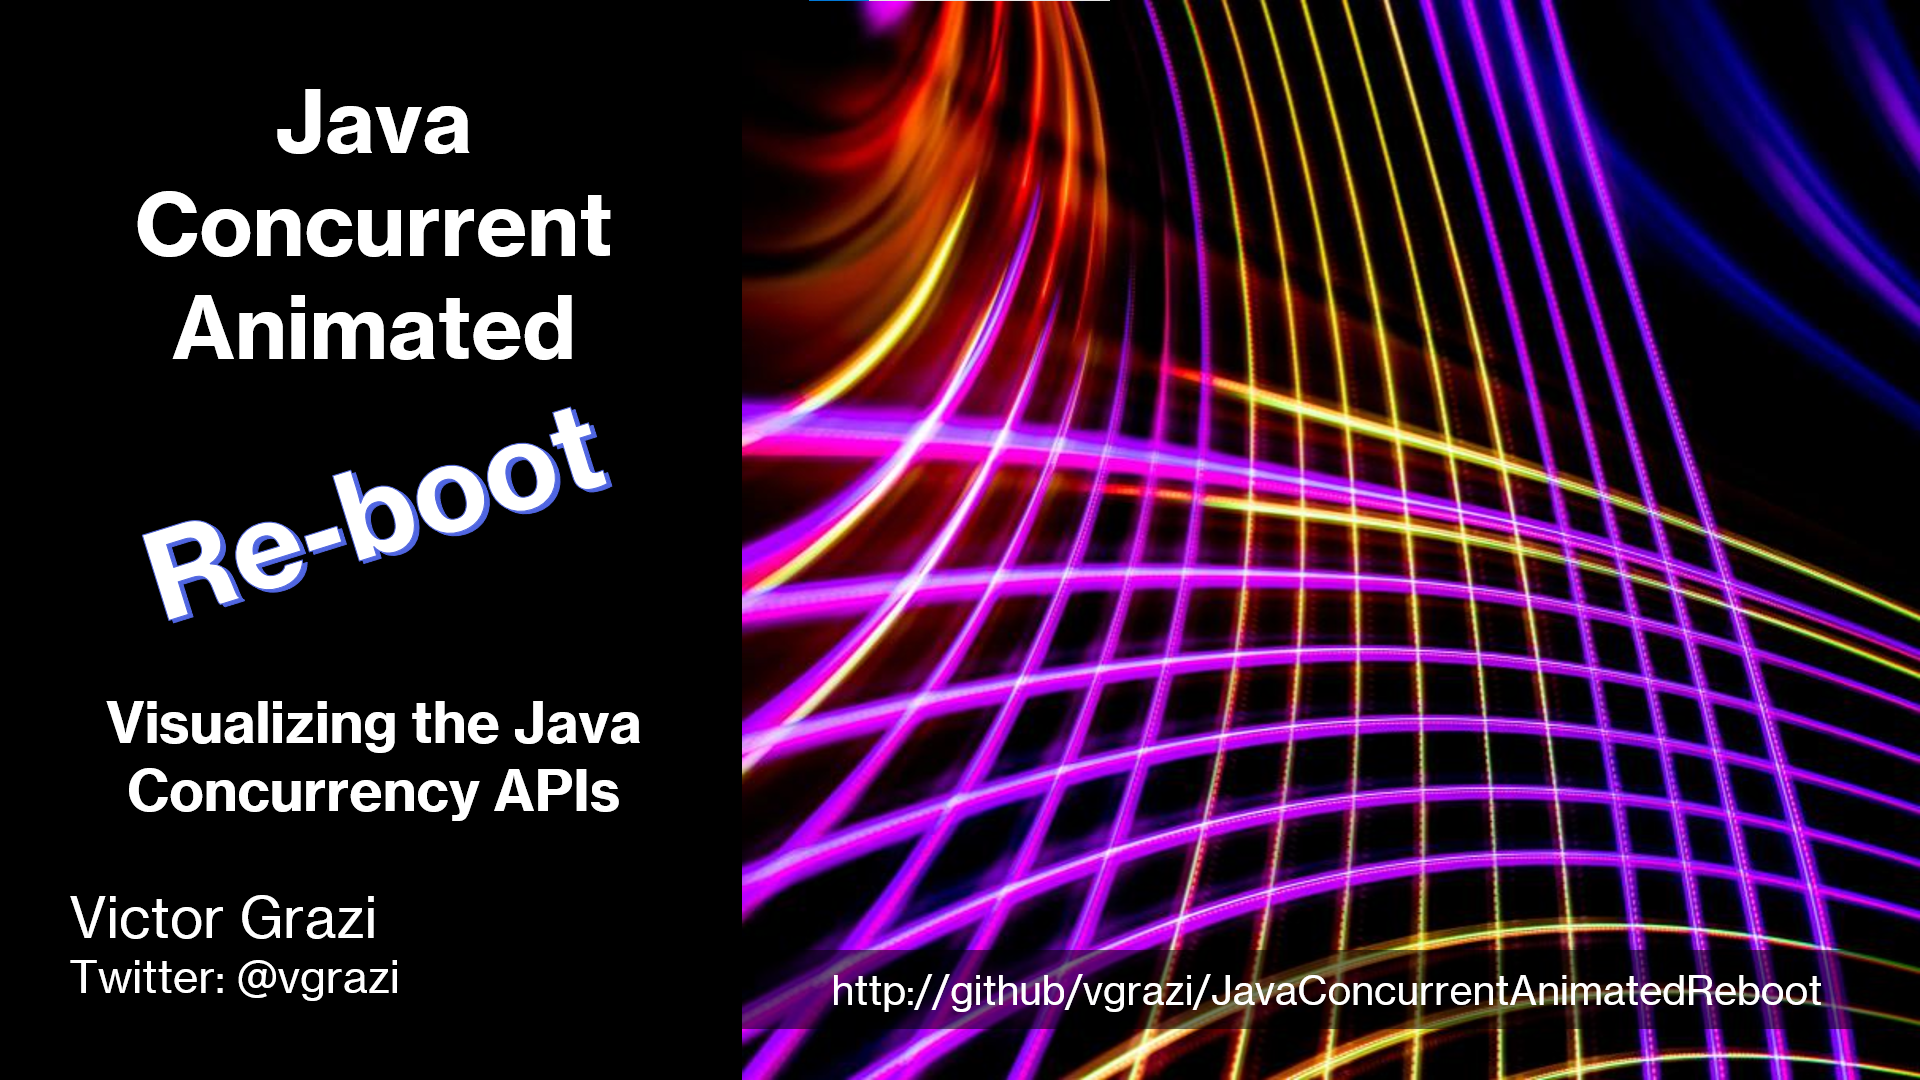
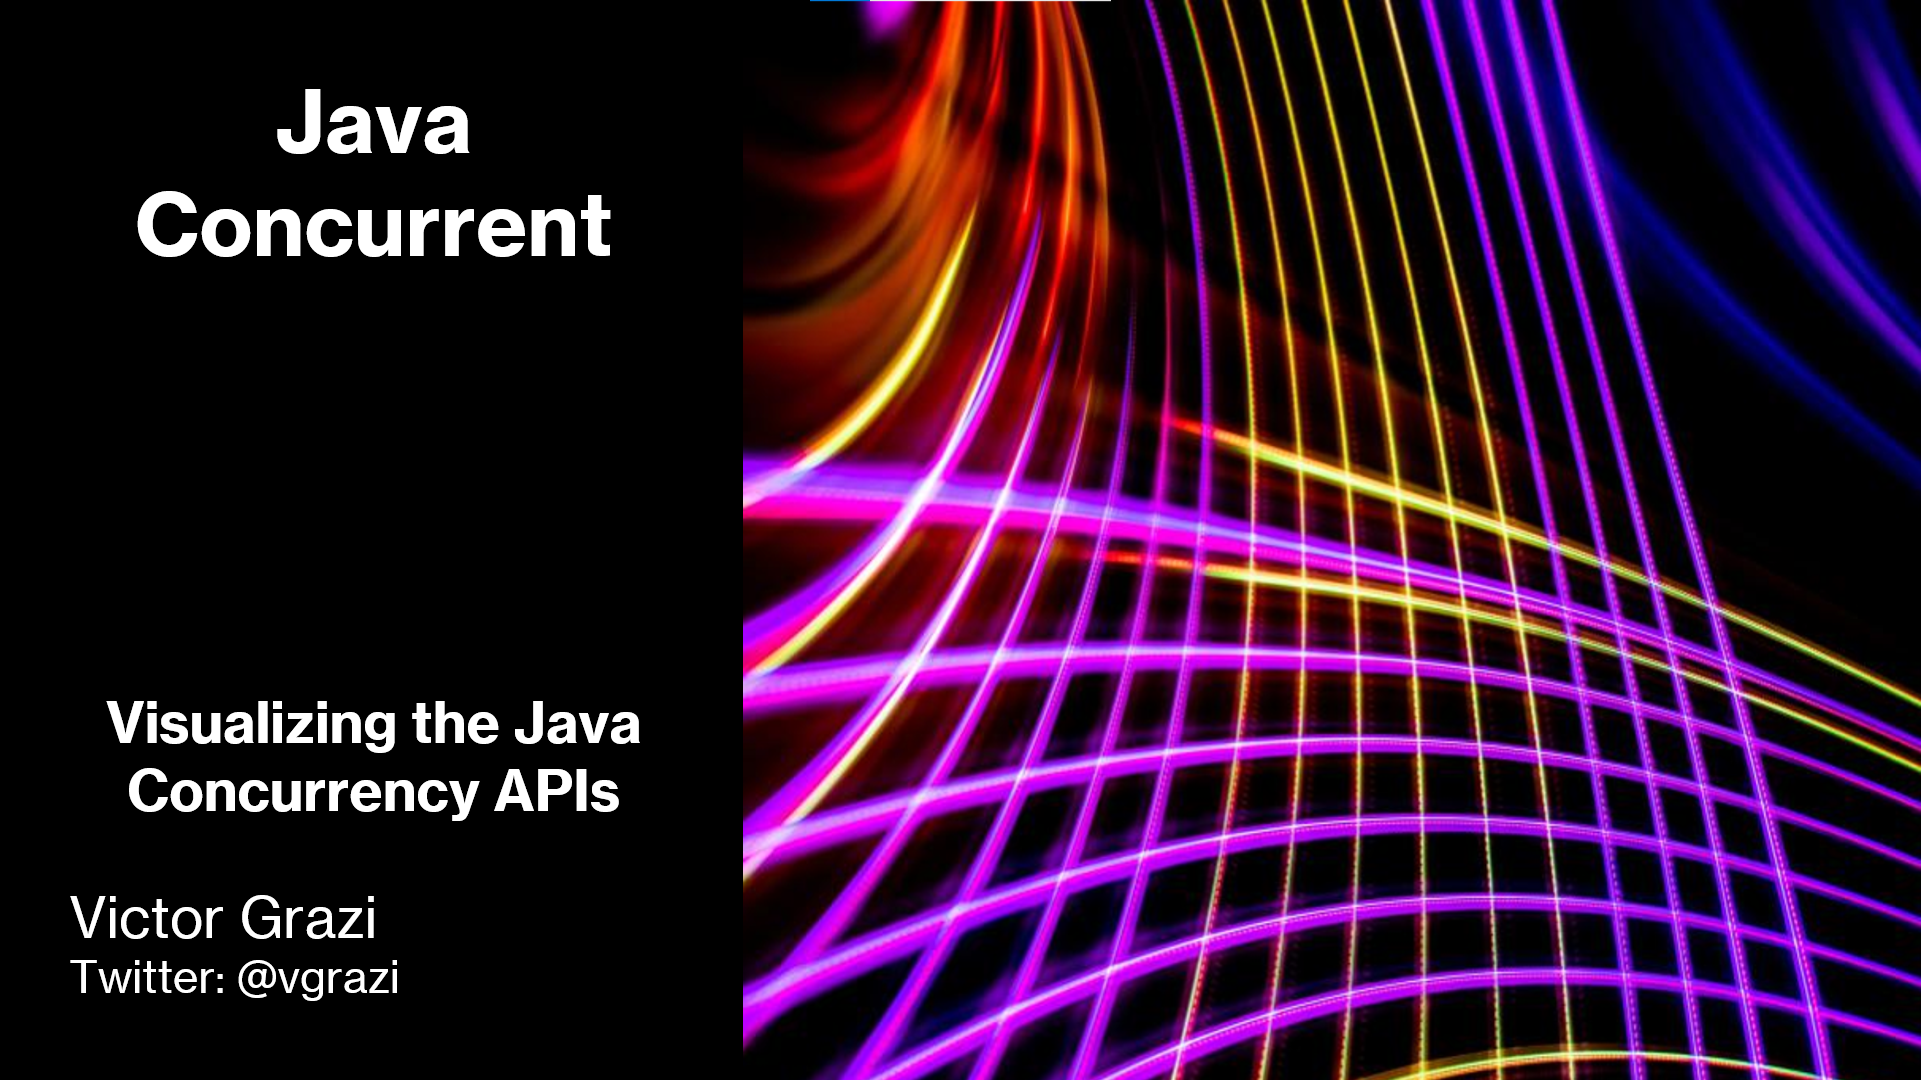
add animations to intro screen

diff --git a/src/main/java/com/vgrazi/jca/slides/IntroSlide.java b/src/main/java/com/vgrazi/jca/slides/IntroSlide.java
@@ -3,8 +3,13 @@ package com.vgrazi.jca.slides;
 import org.springframework.beans.factory.annotation.Autowired;
 import org.springframework.stereotype.Component;
 
+import javax.imageio.ImageIO;
 import javax.swing.*;
 import java.awt.*;
+import java.awt.image.BufferedImage;
+import java.awt.geom.AffineTransform;
+import java.io.IOException;
+import java.net.URL;
 import java.util.concurrent.Executors;
 import java.util.concurrent.ScheduledExecutorService;
 import java.util.concurrent.TimeUnit;
@@ -15,14 +20,19 @@ public class IntroSlide extends Slide {
     @Autowired
     private JPanel cardPanel;
     private final ScheduledExecutorService executor = Executors.newScheduledThreadPool(1);
+
+    private Timer animationTimer;
+    private BufferedImage meshImage;
+    private int meshOffsetX = 0;
+    private int meshOffsetY = 0;
+
     public void run() {
         reset();
-
         threadContext.addButton("reset()", this::reset);
         threadContext.setVisible();
-        // give it a few cycles to load the graphic
         executor.schedule(this::reset, 100, TimeUnit.MILLISECONDS);
     }
+
     @Override
     public void reset() {
         super.reset();
@@ -31,6 +41,188 @@ public class IntroSlide extends Slide {
     }
 
     public void resetImage() {
-        setImage("images/mesh.png", 1);
+        loadMeshImage();
+        startMeshAnimation();
+    }
+
+    private void loadMeshImage() {
+        if (meshImage != null) return;
+        try {
+            URL url = getClass().getClassLoader().getResource("images/mesh.png");
+            if (url != null) {
+                meshImage = ImageIO.read(url);
+            }
+        } catch (IOException e) {
+            // fall back to static image if loading fails
+            setImage("images/mesh.png", 1);
+        }
+    }
+
+    private void startMeshAnimation() {
+        if (animationTimer != null) {
+            animationTimer.stop();
+        }
+        meshOffsetX = 0;
+        meshOffsetY = 0;
+        animationTimer = new Timer(30, e -> {
+            meshOffsetX = (meshOffsetX + 1) % Math.max(1, meshImage != null ? meshImage.getWidth() : 1);
+            meshOffsetY = (meshOffsetY + 1) % Math.max(1, meshImage != null ? meshImage.getHeight() : 1);
+            renderMeshFrame();
+        });
+        animationTimer.start();
+    }
+
+    private void renderMeshFrame() {
+        JLabel label = getImageLabel();
+        if (meshImage == null || label == null) return;
+        int w = label.getWidth();
+        int h = label.getHeight();
+        if (w <= 0 || h <= 0) return;
+
+        int imgW = meshImage.getWidth();
+        int imgH = meshImage.getHeight();
+        final double splitRatio = 0.35;
+        int srcMidX = (int) (imgW * splitRatio);
+        int dstMidX = (int) (w * splitRatio);
+        int srcRightW = Math.max(1, imgW - srcMidX);
+
+        // Compose as two strict panels: left static, right animated.
+        BufferedImage frame = new BufferedImage(w, h, BufferedImage.TYPE_INT_ARGB);
+        Graphics2D g = frame.createGraphics();
+        g.setRenderingHint(RenderingHints.KEY_INTERPOLATION, RenderingHints.VALUE_INTERPOLATION_BILINEAR);
+        g.setColor(Color.BLACK);
+        g.fillRect(0, 0, w, h);
+
+        // Left panel: static (left half of source into left half of destination)
+        g.drawImage(meshImage,
+                0, 0, dstMidX, h,
+                0, 0, srcMidX, imgH,
+                null);
+
+        // Right panel: top is original content, bottom is vertically flipped content.
+        // Scroll through this mirrored texture so top/bottom fit cleanly.
+        int textureH = imgH * 2;
+        int offsetY = meshOffsetY % textureH;
+        BufferedImage rightTexture = new BufferedImage(srcRightW, textureH, BufferedImage.TYPE_INT_ARGB);
+        Graphics2D textureGraphics = rightTexture.createGraphics();
+        textureGraphics.setRenderingHint(RenderingHints.KEY_INTERPOLATION, RenderingHints.VALUE_INTERPOLATION_BILINEAR);
+        // Top half: original right-side source
+        textureGraphics.drawImage(meshImage,
+                0, 0, srcRightW, imgH,
+                srcMidX, 0, imgW, imgH,
+                null);
+        // Bottom half: vertically flipped copy of right-side source
+        textureGraphics.drawImage(meshImage,
+                0, imgH, srcRightW, textureH,
+                srcMidX, imgH, imgW, 0,
+                null);
+        textureGraphics.dispose();
+
+        BufferedImage rightFrame = new BufferedImage(srcRightW, imgH, BufferedImage.TYPE_INT_ARGB);
+        Graphics2D rightGraphics = rightFrame.createGraphics();
+        rightGraphics.setRenderingHint(RenderingHints.KEY_INTERPOLATION, RenderingHints.VALUE_INTERPOLATION_BILINEAR);
+        rightGraphics.drawImage(rightTexture,
+                0, -offsetY, srcRightW, textureH - offsetY,
+                0, 0, srcRightW, textureH,
+                null);
+        rightGraphics.drawImage(rightTexture,
+                0, textureH - offsetY, srcRightW, textureH - offsetY + textureH,
+                0, 0, srcRightW, textureH,
+                null);
+        rightGraphics.dispose();
+        g.drawImage(rightFrame,
+                dstMidX, 0, w, h,
+                0, 0, srcRightW, imgH,
+                null);
+
+        drawAnimatedWord(g, dstMidX, h);
+        drawGitHubUrl(g, dstMidX, w, h);
+        g.dispose();
+        label.setIcon(new ImageIcon(frame));
+    }
+
+    private void drawGitHubUrl(Graphics2D graphics, int rightPanelStart, int totalWidth, int panelHeight) {
+        final String url = "http://github/vgrazi/JavaConcurrentAnimatedReboot";
+        int fontSize = 20;
+        Font font = new Font("SansSerif", Font.PLAIN, fontSize);
+
+        int rightPanelWidth = totalWidth - rightPanelStart;
+
+        // Measure text on a throwaway opaque context so LCD AA metrics are accurate
+        BufferedImage probe = new BufferedImage(1, 1, BufferedImage.TYPE_INT_RGB);
+        Graphics2D pg = probe.createGraphics();
+        pg.setRenderingHint(RenderingHints.KEY_TEXT_ANTIALIASING, RenderingHints.VALUE_TEXT_ANTIALIAS_LCD_HRGB);
+        pg.setFont(font);
+        FontMetrics metrics = pg.getFontMetrics();
+        pg.dispose();
+
+        int textWidth  = metrics.stringWidth(url);
+        int stripH     = metrics.getHeight() + 8;
+        int textX      = Math.max(0, (rightPanelWidth - textWidth) / 2);
+        int textY      = metrics.getAscent() + 4;
+        int destStripY = (int) (panelHeight * 0.85) - metrics.getAscent() - 4;
+
+        // Render onto TYPE_INT_RGB (opaque) — LCD subpixel AA requires an opaque surface
+        BufferedImage strip = new BufferedImage(rightPanelWidth, stripH, BufferedImage.TYPE_INT_RGB);
+        Graphics2D g = strip.createGraphics();
+        g.setColor(Color.BLACK);
+        g.fillRect(0, 0, rightPanelWidth, stripH);
+        g.setRenderingHint(RenderingHints.KEY_TEXT_ANTIALIASING, RenderingHints.VALUE_TEXT_ANTIALIAS_LCD_HRGB);
+        g.setRenderingHint(RenderingHints.KEY_RENDERING,         RenderingHints.VALUE_RENDER_QUALITY);
+        g.setRenderingHint(RenderingHints.KEY_FRACTIONALMETRICS, RenderingHints.VALUE_FRACTIONALMETRICS_OFF);
+        g.setFont(font);
+        g.setColor(Color.WHITE);
+        g.drawString(url, textX, textY);
+        g.dispose();
+
+        // Blit the opaque strip at pixel-perfect 1:1 scale — no interpolation blur
+        graphics.drawImage(strip, rightPanelStart, destStripY, null);
+    }
+
+    private void drawAnimatedWord(Graphics2D graphics, int leftPanelWidth, int panelHeight) {
+        final String word = "Animated";
+        int fontSize = Math.max(28, Math.min(62, leftPanelWidth / 3));
+        Font font = new Font("SansSerif", Font.BOLD | Font.ITALIC, fontSize);
+
+        Graphics2D g = (Graphics2D) graphics.create();
+        g.setRenderingHint(RenderingHints.KEY_TEXT_ANTIALIASING, RenderingHints.VALUE_TEXT_ANTIALIAS_ON);
+        g.setFont(font);
+        FontMetrics metrics = g.getFontMetrics();
+
+        int textWidth = metrics.stringWidth(word);
+        int startX = Math.max(8, (leftPanelWidth - textWidth) / 2);
+        int baseY = (int) (panelHeight * 0.50) - 50;
+        long now = System.currentTimeMillis();
+
+        int x = startX;
+        for (int i = 0; i < word.length(); i++) {
+            String letter = String.valueOf(word.charAt(i));
+            int letterWidth = metrics.stringWidth(letter);
+            float wobble = (float) Math.sin((now * 0.006) + (i * 0.8));
+            int y = baseY + Math.round(wobble * 10f);
+            float hue = (float) ((now * 0.00010 + (i * 0.08)) % 1.0);
+            Color letterColor = Color.getHSBColor(hue, 0.85f, 1.0f);
+
+            Graphics2D letterGraphics = (Graphics2D) g.create();
+            AffineTransform transform = letterGraphics.getTransform();
+            double angle = Math.sin((now * 0.0035) + (i * 0.6)) * 0.10;
+            letterGraphics.rotate(angle, x + letterWidth / 2.0, y - metrics.getAscent() / 2.0);
+
+            // soft glow behind each letter
+            letterGraphics.setColor(new Color(letterColor.getRed(), letterColor.getGreen(), letterColor.getBlue(), 90));
+            letterGraphics.drawString(letter, x - 1, y - 1);
+            letterGraphics.drawString(letter, x + 1, y + 1);
+
+            // main letter and subtle shadow for contrast on dark background
+            letterGraphics.setColor(new Color(0, 0, 0, 170));
+            letterGraphics.drawString(letter, x + 2, y + 2);
+            letterGraphics.setColor(letterColor);
+            letterGraphics.drawString(letter, x, y);
+
+            letterGraphics.setTransform(transform);
+            letterGraphics.dispose();
+            x += letterWidth;
+        }
+        g.dispose();
     }
 }

diff --git a/src/main/java/com/vgrazi/jca/sprites/VirtualRunnerThreadSprite.java b/src/main/java/com/vgrazi/jca/sprites/VirtualRunnerThreadSprite.java
@@ -69,33 +69,42 @@ public class VirtualRunnerThreadSprite<S> extends RunnerThreadSprite<S> {
             int topY = topBound;
             int bottomY = bottomBound;
 
-            double topLength = Math.max(1, cxRight - cxLeft);
-            double arcLength = Math.PI * radius;
-            double perimeter = topLength + arcLength + topLength + arcLength;
-
-            double speedPixelsPerSecond = 90.0;
-            double phaseOffset = (getID() * 37.0) % perimeter;
-            double distance = (System.nanoTime() / 1_000_000_000.0 * speedPixelsPerSecond + phaseOffset) % perimeter;
+            boolean hasCarrier = !ThreadUtils.getCarrier(getThread()).isEmpty();
 
             double x;
             double y;
-            if (distance < topLength) {
-                x = cxLeft + distance;
-                y = topY;
-            } else if (distance < topLength + arcLength) {
-                double t = (distance - topLength) / arcLength;
-                double angle = -Math.PI / 2 + t * Math.PI;
-                x = cxRight + radius * Math.cos(angle);
-                y = cy + radius * Math.sin(angle);
-            } else if (distance < topLength + arcLength + topLength) {
-                double t = distance - topLength - arcLength;
-                x = cxRight - t;
-                y = bottomY;
+            if (hasCarrier) {
+                // Animate around the oval only when mounted on a carrier
+                double topLength = Math.max(1, cxRight - cxLeft);
+                double arcLength = Math.PI * radius;
+                double perimeter = topLength + arcLength + topLength + arcLength;
+
+                double speedPixelsPerSecond = 90.0;
+                double phaseOffset = (getID() * 37.0) % perimeter;
+                double distance = (System.nanoTime() / 1_000_000_000.0 * speedPixelsPerSecond + phaseOffset) % perimeter;
+
+                if (distance < topLength) {
+                    x = cxLeft + distance;
+                    y = topY;
+                } else if (distance < topLength + arcLength) {
+                    double t = (distance - topLength) / arcLength;
+                    double angle = -Math.PI / 2 + t * Math.PI;
+                    x = cxRight + radius * Math.cos(angle);
+                    y = cy + radius * Math.sin(angle);
+                } else if (distance < topLength + arcLength + topLength) {
+                    double t = distance - topLength - arcLength;
+                    x = cxRight - t;
+                    y = bottomY;
+                } else {
+                    double t = (distance - topLength - arcLength - topLength) / arcLength;
+                    double angle = Math.PI / 2 + t * Math.PI;
+                    x = cxLeft + radius * Math.cos(angle);
+                    y = cy + radius * Math.sin(angle);
+                }
             } else {
-                double t = (distance - topLength - arcLength - topLength) / arcLength;
-                double angle = Math.PI / 2 + t * Math.PI;
-                x = cxLeft + radius * Math.cos(angle);
-                y = cy + radius * Math.sin(angle);
+                // No carrier — park the character at the top-left of the oval, stationary
+                x = cxLeft;
+                y = topY;
             }
             graphics1.drawString(character, (int) Math.round(x) + horizontalShift, (int) Math.round(y) + 8);
         } else {

diff --git a/src/main/java/com/vgrazi/jca/JavaConcurrentAnimatedRebootApplication.java b/src/main/java/com/vgrazi/jca/JavaConcurrentAnimatedRebootApplication.java
@@ -7,9 +7,22 @@ import org.springframework.boot.builder.SpringApplicationBuilder;
 public class JavaConcurrentAnimatedRebootApplication {
 
     public static void main(String[] args) {
-        SpringApplicationBuilder builder = new SpringApplicationBuilder(JavaConcurrentAnimatedRebootApplication.class);
-        builder.headless(false).run(args);
+        configureVirtualThreadSchedulerLimits();
         System.setProperty("java.util.logging.SimpleFormatter.format",
                 "[%1$tF %1$tT] [%4$-7s] %5$s%n");
+        SpringApplicationBuilder builder = new SpringApplicationBuilder(JavaConcurrentAnimatedRebootApplication.class);
+        builder.headless(false).run(args);
+    }
+
+    private static void configureVirtualThreadSchedulerLimits() {
+        // Allow explicit JVM -D settings to win; otherwise use a conservative default for demos.
+        if (System.getProperty("jdk.virtualThreadScheduler.parallelism") == null) {
+            int defaultParallelism = Math.max(1, Math.min(4, Runtime.getRuntime().availableProcessors()));
+            System.setProperty("jdk.virtualThreadScheduler.parallelism", String.valueOf(defaultParallelism));
+        }
+        if (System.getProperty("jdk.virtualThreadScheduler.maxPoolSize") == null) {
+            int parallelism = Integer.parseInt(System.getProperty("jdk.virtualThreadScheduler.parallelism"));
+            System.setProperty("jdk.virtualThreadScheduler.maxPoolSize", String.valueOf(parallelism));
+        }
     }
 }

diff --git a/src/main/java/com/vgrazi/jca/JCAFrame.java b/src/main/java/com/vgrazi/jca/JCAFrame.java
@@ -135,7 +135,7 @@ public class JCAFrame extends JFrame {
     private JLabel imageLabel;
 
     public JCAFrame() throws HeadlessException {
-        super("Java Concurrent Animated - Reboot! https://github.com/vgrazi/JavaConcurrentAnimatedReboot");
+        super("Java Concurrent Animated - Reboot!");
     }
 
     @Value("${BUTTON-PANEL-COLOR}")
@@ -145,6 +145,7 @@ public class JCAFrame extends JFrame {
 
     @PostConstruct
     public void afterPropertiesSet() throws IOException {
+        setTitle("Java Concurrent Animated - Reboot!");
         snippetCanvas.setBackground(Color.white);
         snippetCanvas.setFont(new Font(Font.MONOSPACED, Font.BOLD, 18));
         snippetCanvas.setFontSize(18);

diff --git a/src/main/java/com/vgrazi/jca/slides/Slide.java b/src/main/java/com/vgrazi/jca/slides/Slide.java
@@ -168,6 +168,10 @@ public abstract class Slide {
         uiUtils.setImage(imageFile, imageLabel, scaling);
     }
 
+    protected JLabel getImageLabel() {
+        return imageLabel;
+    }
+
     /**
      * Sets the index and redraws the snippet. Index == -1 colors the entire snippet. Index == 0 colors the constructor, etc.
      * The "index" parameter represents the index in the html snippet associated with this slide.
